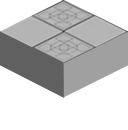
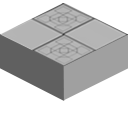
Add files via upload

Changed region(s): [[0.0, 0.0, 1.0, 0.5231], [0.0, 0.4923, 1.0, 0.8]]

diff --git a/js/iso.js b/js/iso.js
@@ -17,8 +17,10 @@ class tile {
         this.fillTile = function fillTile() {
             this.shade = color;
 			this.highlight = false;
-
         }
+		this.highlightEdge = false;
+		this.selectedEdge = 2;
+		this.walls = [0,0,0,0];
 		this.propIndex = 0;
 		this.tileAngle = 0;
 		
@@ -31,6 +33,48 @@ class tile {
             ctx.closePath();
         }
 		
+		this.wallPath = function wallPath(x, y, tileSize, side) {
+		if(side == 3){
+		ctx.beginPath();
+        ctx.moveTo(x, y);
+        ctx.lineTo(x - tileSize, y - tileSize / 2);
+		ctx.lineTo(x - tileSize, y - tileSize / 2-tileSize);
+		ctx.lineTo(x, y-tileSize);
+		ctx.closePath();
+		}
+		if(side == 2){
+		ctx.beginPath();
+        ctx.moveTo(x, y);
+        ctx.lineTo(x + tileSize, y - tileSize / 2);
+		ctx.lineTo(x + tileSize, y - tileSize / 2 -tileSize);
+		ctx.lineTo(x, y-tileSize);
+		ctx.closePath();
+		}
+		else if(side == 1){
+		ctx.beginPath();
+        ctx.moveTo(x + tileSize, y - tileSize / 2);
+        ctx.lineTo(x + tileSize, y - tileSize / 2 -tileSize);
+		ctx.lineTo(x , y-tileSize*2);
+		ctx.lineTo(x, y-tileSize);
+		ctx.closePath();
+		}
+		else if(side == 0){
+		ctx.beginPath();
+        ctx.moveTo(x - tileSize, y - tileSize / 2);
+        ctx.lineTo(x - tileSize, y - tileSize / 2 -tileSize);
+		ctx.lineTo(x , y-tileSize*2);
+		ctx.lineTo(x, y-tileSize);
+		ctx.closePath();
+		}
+        }
+		
+		this.drawIsoWall = function drawIsoWall(x, y, tileSize, side){
+		ctx.beginPath(); //without this i was filling in the highlight path with the wall colour
+		this.wallPath(x, y, tileSize, side);
+		ctx.fillStyle = 'white';
+		ctx.fill();
+		ctx.stroke();
+		}
 		
         this.drawIso = function drawIso(x, y, tileSize) {
             this.tilePath(x, y, tileSize);
@@ -52,9 +96,41 @@ class tile {
             this.tilePath(x, y, tileSize);
             ctx.stroke();
         }
+		
+			this.tileEdge = function tileEdge(x, y, tileSize) {
+			ctx.beginPath(); //should this be a case?
+			if(this.selectedEdge==2){
+			ctx.moveTo(x, y);
+            ctx.lineTo(x + tileSize, y - tileSize / 2);
+			}
+			else if(this.selectedEdge==1){
+			ctx.moveTo(x + tileSize, y - tileSize / 2);
+			ctx.lineTo(x, y - tileSize);
+			}
+			else if(this.selectedEdge==0){
+			ctx.moveTo(x, y - tileSize);	
+			ctx.lineTo(x - tileSize, y - tileSize / 2);
+			}
+			else if(this.selectedEdge==3){
+			ctx.moveTo(x - tileSize, y - tileSize / 2);
+			ctx.lineTo(x, y);
+			}
+                               
+        }
+				
+			this.drawEdge = function drawEdge(x, y, tileSize) {
+            this.tileEdge(x, y, tileSize);
+			ctx.lineWidth = 5;
+			ctx.strokeStyle = 'rgba(0,255,255,0.5)';
+            ctx.stroke();
+			ctx.lineWidth = 1;
+			ctx.strokeStyle = 'black';
+        }
+		
+		
 		    this.drawOverlay = function drawOverlay(x, y, tileSize) {
             this.tilePath(x, y, tileSize);
-			ctx.fillStyle = 'rgba(0,255,255,0.5)';
+			ctx.fillStyle = 'rgba(0,255,255,0.5)';		
             ctx.fill();
         }
     }
@@ -65,8 +141,11 @@ class imageTile extends tile {
         super();
         this.ground = defaultIso;
         this.prop = null;
-        this.fillTile = function fillTile() {
-            if (block.blockType == 'prop') {
+        this.fillTile = function fillTile(edge=0) {
+			if(selectionType == "walls"){
+				this.walls[edge] = 1;
+			}
+            else if (block.blockType == 'prop') {
                 this.prop = block;
             } else {
                 this.ground = block;
@@ -77,12 +156,20 @@ class imageTile extends tile {
 			//do the following in reverse
 			for(let i = 1; i>=this.vOffset; i-=0.5){
 			ctx.drawImage(this.ground, 0, 0, widthOffsetGround, this.ground.height, x - tileSize, y - tileSize * this.ground.height / 64 + tileSize * i, widthOffsetGround * tileSize / 64, this.ground.height * tileSize / 64);	
-			}            
-            if (outline == true) {
-			this.drawOutline(x, y + (this.vOffset - 1) * tileSize, tileSize);		
-            }
+			}
 			if (this.highlight == true) {
 			this.drawOverlay(x, y + (this.vOffset - 1) * tileSize, tileSize);
+			}
+			if (outline == true) {
+			this.drawOutline(x, y + (this.vOffset - 1) * tileSize, tileSize);		
+            }
+			if (this.highlightEdge == true) {
+			this.drawEdge(x, y + (this.vOffset - 1) * tileSize, tileSize);
+			}
+			for(let i =0;i<2;i++){ //draw any walls
+			if(this.walls[i]){
+			this.drawIsoWall(x, y + (this.vOffset - 1) * tileSize, tileSize, i);	
+			}
 			}
             if (this.prop instanceof tileBlock) {
                 let widthOffsetProp = this.prop.width / this.prop.angles
@@ -129,8 +216,16 @@ class imageTile extends tile {
 				else {
                     ctx.drawImage(this.prop, 0, 0, widthOffsetProp, this.prop.height, x - tileSize, y - tileSize * this.prop.height / 64 +(this.vOffset-1)*tileSize, widthOffsetProp * tileSize / 64, this.prop.height * tileSize / 64);
                 }
-            }			
+            }		
+			for(let i =2;i<4;i++){ //draw any walls
+			if(this.walls[i]){
+			this.drawIsoWall(x, y + (this.vOffset - 1) * tileSize, tileSize, i);	
+			}
+			}
+			
         }
+		
+
     }
 }
 
@@ -233,7 +328,7 @@ class map {
             }
         }
 
-        this.findTileID = function findTileID(mouseX, mouseY) {			
+        this.floatTileID = function floatTileID(mouseX, mouseY) {			
             let rotOffsetY = -this.mapRows / 2 * tileSize / 2 - this.mapCols / 2 * tileSize / 2
                 let rotOffsetX = this.mapRows / 2 * tileSize - this.mapCols / 2 * tileSize
                 let row = (mouseY - y - rotOffsetY) / tileSize - (mouseX - x - rotOffsetX) / (tileSize * 2)+ 1 ;
@@ -297,15 +392,25 @@ class map {
 				}
 			}
 			}	
-			}			
-			col = Math.floor(col+colOffset);
-			row = Math.floor(row+rowOffset);
+			}						
+			//col = Math.floor(col+colOffset);
+			//row = Math.floor(row+rowOffset);
+			col = col+colOffset;
+			row = row+rowOffset;
             return [col, row];
         }
 		
+		this.findTileID = function findTileID(mouseX, mouseY){
+			let floats = this.floatTileID(mouseX, mouseY)
+			let col = Math.floor(floats[0])
+			let row = Math.floor(floats[1])
+			return [col, row];
+		}
+		
 		this.clearHighlights = function clearHighlights(){
 		for (let col = 0; col < this.mapCols; col++) {
-             for (let row = 0; row < this.mapRows; row++) {                             
+             for (let row = 0; row < this.mapRows; row++) {    
+				  this.grid[col][row].highlightEdge = false;
                   this.grid[col][row].highlight = false;
                             }			
 		}
@@ -361,6 +466,17 @@ class map {
                 this.grid[col][row].fillTile()
             }
         }
+
+		    this.setWallIso = function setWallIso(mouseX, mouseY) {
+            let xy = this.findTileID(mouseX, mouseY);
+			let side = selectEdge(mouseX,mouseY);
+            let col = xy[0];
+            let row = xy[1];
+            if(this.isTile(col,row)) {
+                this.grid[col][row].fillTile(side)
+            }
+        }
+
 
 		this.isTile = function isTile(col,row){
 			if (col >= 0 && col < this.mapCols && row >= 0 && row < mapRows){

diff --git a/js/game.js b/js/game.js
@@ -32,7 +32,7 @@ let clickStart = [0, 0];
 let selection = [];
 let cursorX = 0;
 let cursorY = 0;
-
+let selectionType = "ground";
 
 function drawIso() {
     renderStyle = "Iso";
@@ -173,13 +173,27 @@ function scrollMap(event) {
     }
 }
 
+addEventListener("keydown", switchHighlightStyle);
+
+function switchHighlightStyle(event) {
+	if(event.key == 'e'){
+	if(selectionType == "ground"){
+		selectionType = "walls";
+	}
+	else if(selectionType == "walls"){
+		selectionType = "ground";
+	}
+	}
+};
+
 canvas.addEventListener("mousemove", highlight);
 
 function highlight(event) {
+	if(selectionType == "ground"){
 	if(typeof event === 'object' && event.type=="mousemove"){
 	cursorX=event.offsetX;
 	cursoyY=event.offsetY;
-	}
+	}	
     let hlTile = map.findTileID(cursorX, cursoyY);
     let col = hlTile[0]
         let row = hlTile[1]
@@ -204,9 +218,61 @@ function highlight(event) {
         map.grid[col - i][row].highlight = true;
 		}
 		}
-		
-        //drawMap();
     }
+	}
+}
+
+canvas.addEventListener("mousemove", highlightEdge); 
+
+function highlightEdge(event) {
+	if(selectionType == "walls"){
+	if(typeof event === 'object' && event.type=="mousemove"){
+	cursorX=event.offsetX;
+	cursoyY=event.offsetY;
+	}	
+    let hlTile = map.findTileID(cursorX, cursoyY);
+    let col = hlTile[0]
+        let row = hlTile[1]
+        //if(mouseIsDown == false){
+        map.clearHighlights();
+    //}
+    if (mouseIsDown) {
+        highlightGrid(clickStart[0], clickStart[1], col, row);
+		selectGrid(clickStart[0], clickStart[1], col, row);
+    } else{
+		for(let i = block.dimensions[1]-1; i>=0; i--){
+		if (propAngle==0 && map.isTile(col, row-i)){
+        map.grid[col][row - i].highlightEdge = true;
+		map.grid[col][row - i].selectedEdge = selectEdge(cursorX,cursoyY);
+		}
+		else if (propAngle==90 && map.isTile(col+i, row)){
+        map.grid[col + i][row].highlightEdge = true;
+		}
+		else if (propAngle==180 && map.isTile(col, row+i)){
+        map.grid[col][row + i].highlightEdge = true;
+		}
+		else if (propAngle==270 && map.isTile(col-i, row)){
+        map.grid[col - i][row].highlightEdge = true;
+		}
+		}
+    }
+	}
+}
+
+function selectEdge(x,y){
+	//console.log(map.floatTileID(x,y)[0]%1);
+	if(map.floatTileID(x,y)[0]%1<0.1){
+	return 0;
+	}
+	else if(map.floatTileID(x,y)[0]%1>0.9){
+	return 2;
+	}
+	else if(map.floatTileID(x,y)[1]%1<0.1){
+	return 1;
+	}
+	else if(map.floatTileID(x,y)[1]%1>0.9){
+	return 3;
+	}
 }
 
 function highlightGrid(x1, y1, x2, y2) {
@@ -285,7 +351,10 @@ function selectGrid(x1, y1, x2, y2) {
 canvas.addEventListener("click", setTile);
 
 function setTile(event) {
-    if (renderStyle == "Iso") {
+	if(selectionType == "walls"){
+	map.setWallIso(event.offsetX,event.offsetY);
+	}
+    else if (renderStyle == "Iso") {
         if (outline) {
 			for(let i = 0; i < selection.length; i++){
 			map.moveGroundUpbyID(selection[i][0], selection[i][1], event.altKey);
